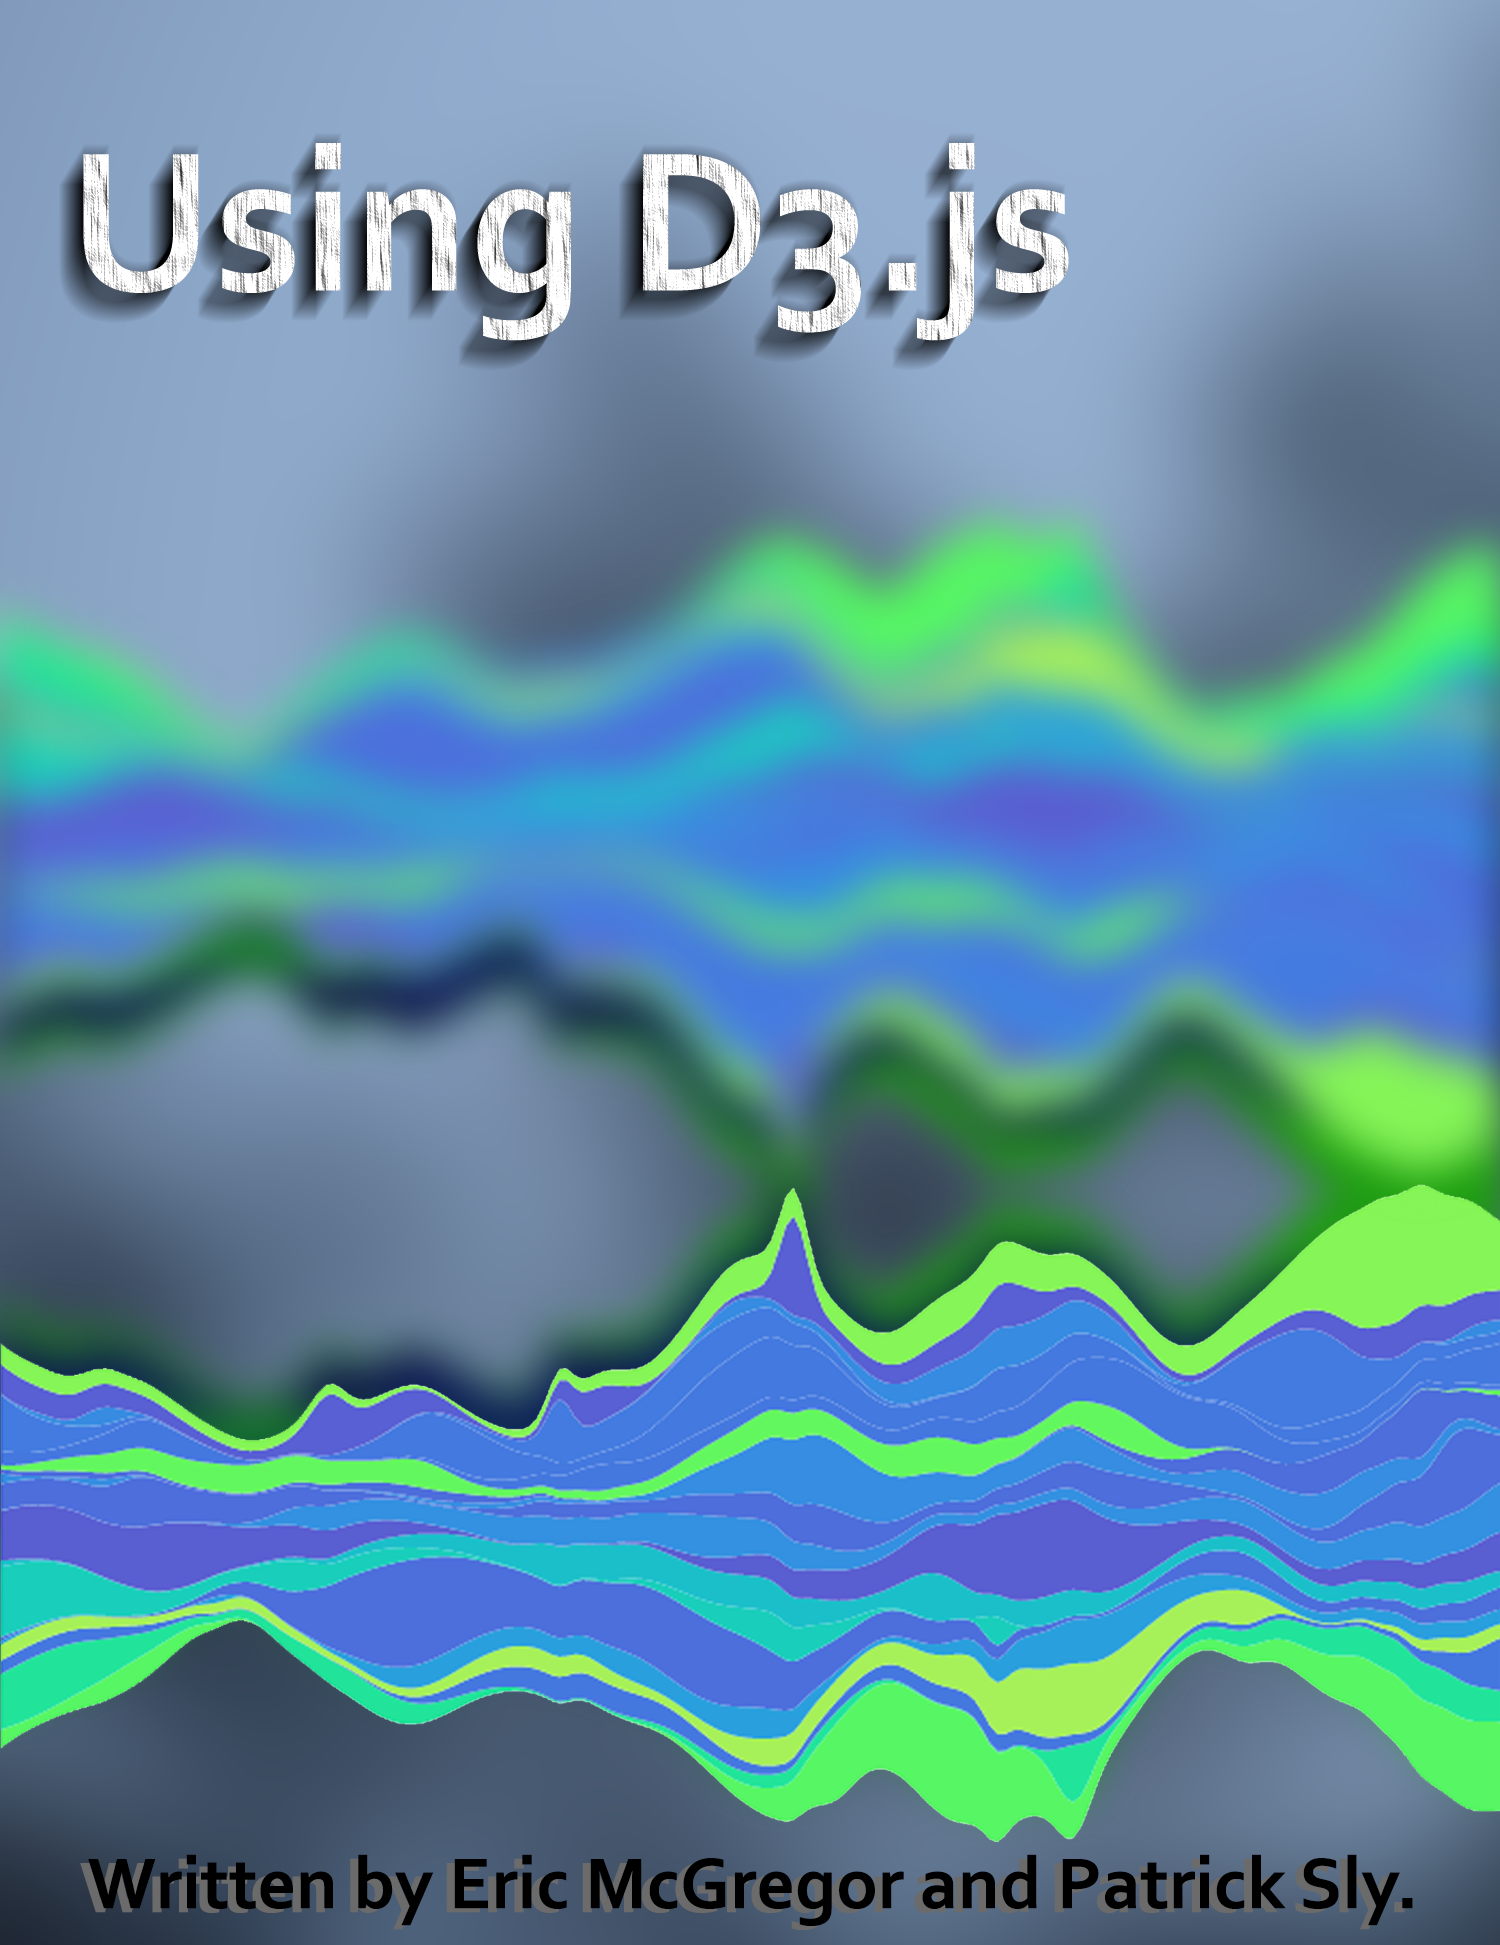
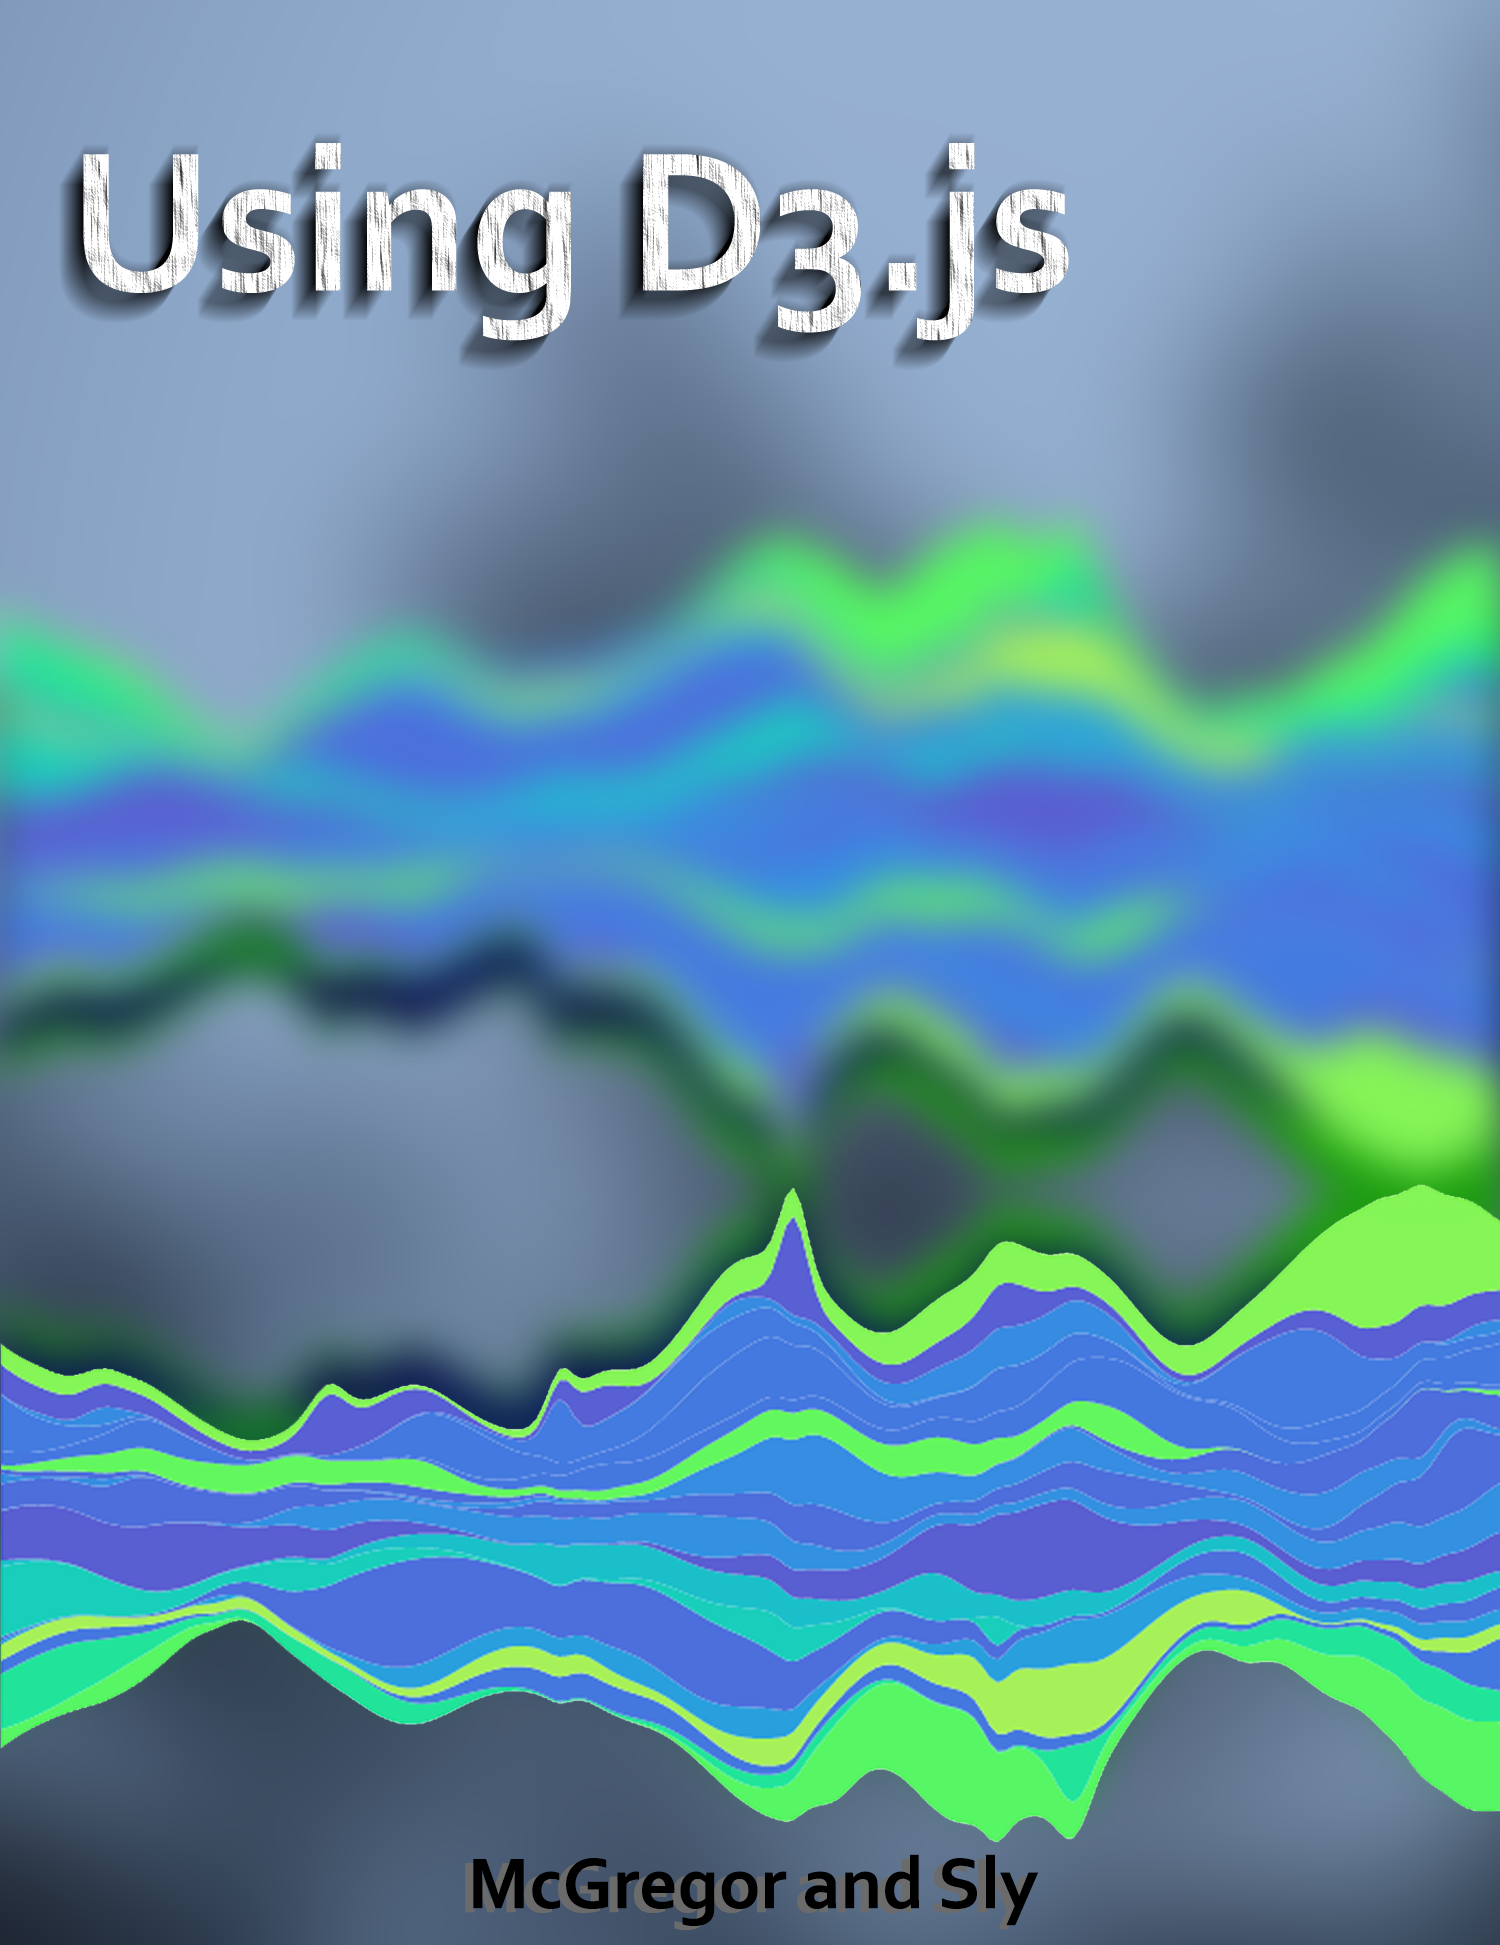
update cover art

Changed region(s): [[0.0613, 0.9563, 0.9507, 1.0]]

diff --git a/html/index.html b/html/index.html
@@ -40,7 +40,7 @@
     </p>
 
     <p>
-      The cover art was created by <a href="">Patrick French</a> and is based on <a href="https://bost.ocks.org/mike/">Mike Bostock</a>'s <a href="https://beta.observablehq.com/@mbostock/streamgraph-transitions"> steam graph demo</a>.
+      The cover art was created by <a href="http://www.thejamesconcept.com/index.php">James French</a> and is based on <a href="https://bost.ocks.org/mike/">Mike Bostock</a>'s <a href="https://beta.observablehq.com/@mbostock/streamgraph-transitions"> steam graph demo</a>.
     </p>
 
   </div>

diff --git a/html/roadmap.html b/html/roadmap.html
@@ -19,7 +19,7 @@
 
   <ul>
     <li>Areas - Patrick</li>
-    <li>Diverging Scales - Eric </li>
+    <li>Voronoi Diagrams - Eric </li>
   </ul>
 
   <h3>The D3.js Collection</h3>

diff --git a/00_01_introduction.md b/00_01_introduction.md
@@ -1,3 +1,5 @@
+<script src="https://d3js.org/d3.v4.min.js"></script>
+
 # Introduction
 
 [D3.js](https://d3js.org) (Data Driven Documents) is an open source JavaScript library created by [Mike Bostic](https://github.com/mbostock) that allows you to create an incredible array of dynamic data visualizations in a document's DOM.  With the library you can create standard visualizations like line graphs, pie charts, and scatter plots, but because the library was engineered to be incredibly flexible, you can also create custom visualizations and complex visualizations like the [Steamgraph](https://bl.ocks.org/mbostock/4060954) shown below.
@@ -21,8 +23,6 @@
     <button id="button" onclick="transition()">Update</button>
     <svg width="700" height="400"></svg>
 </div>
-
-<script src="https://d3js.org/d3.v4.min.js"></script>
 
 <script>
 var n = 20, // number of layers
